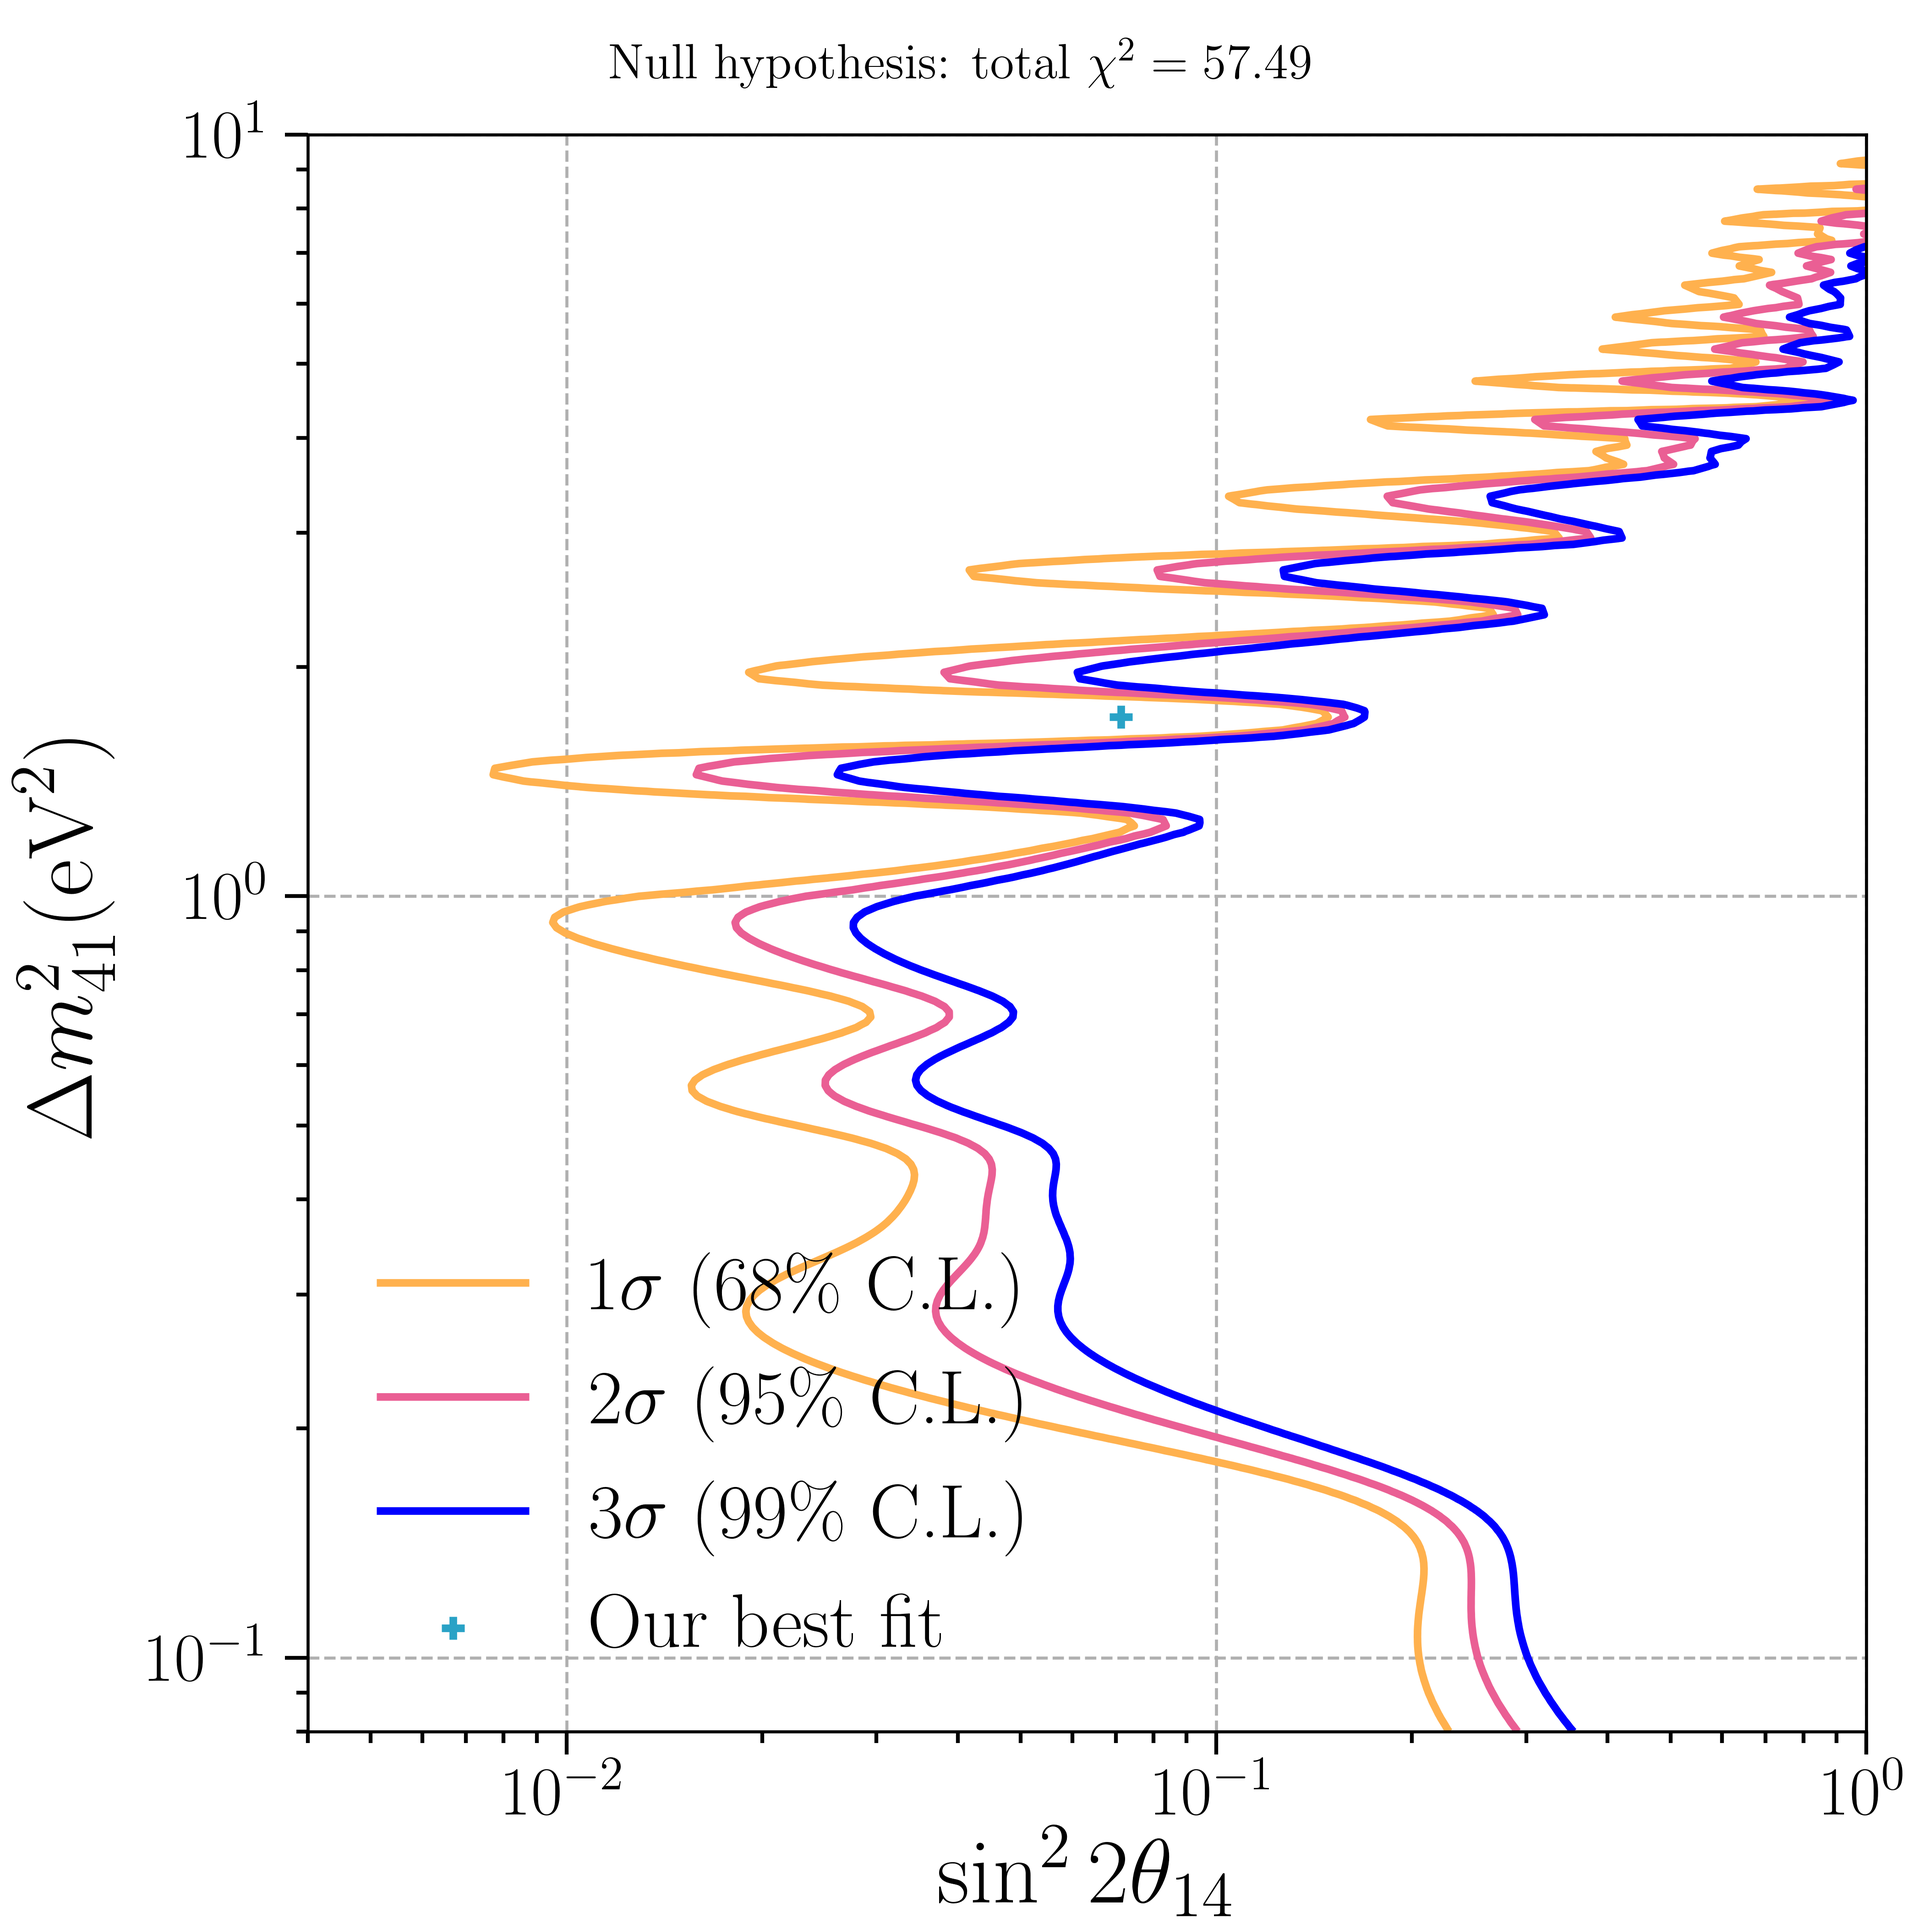
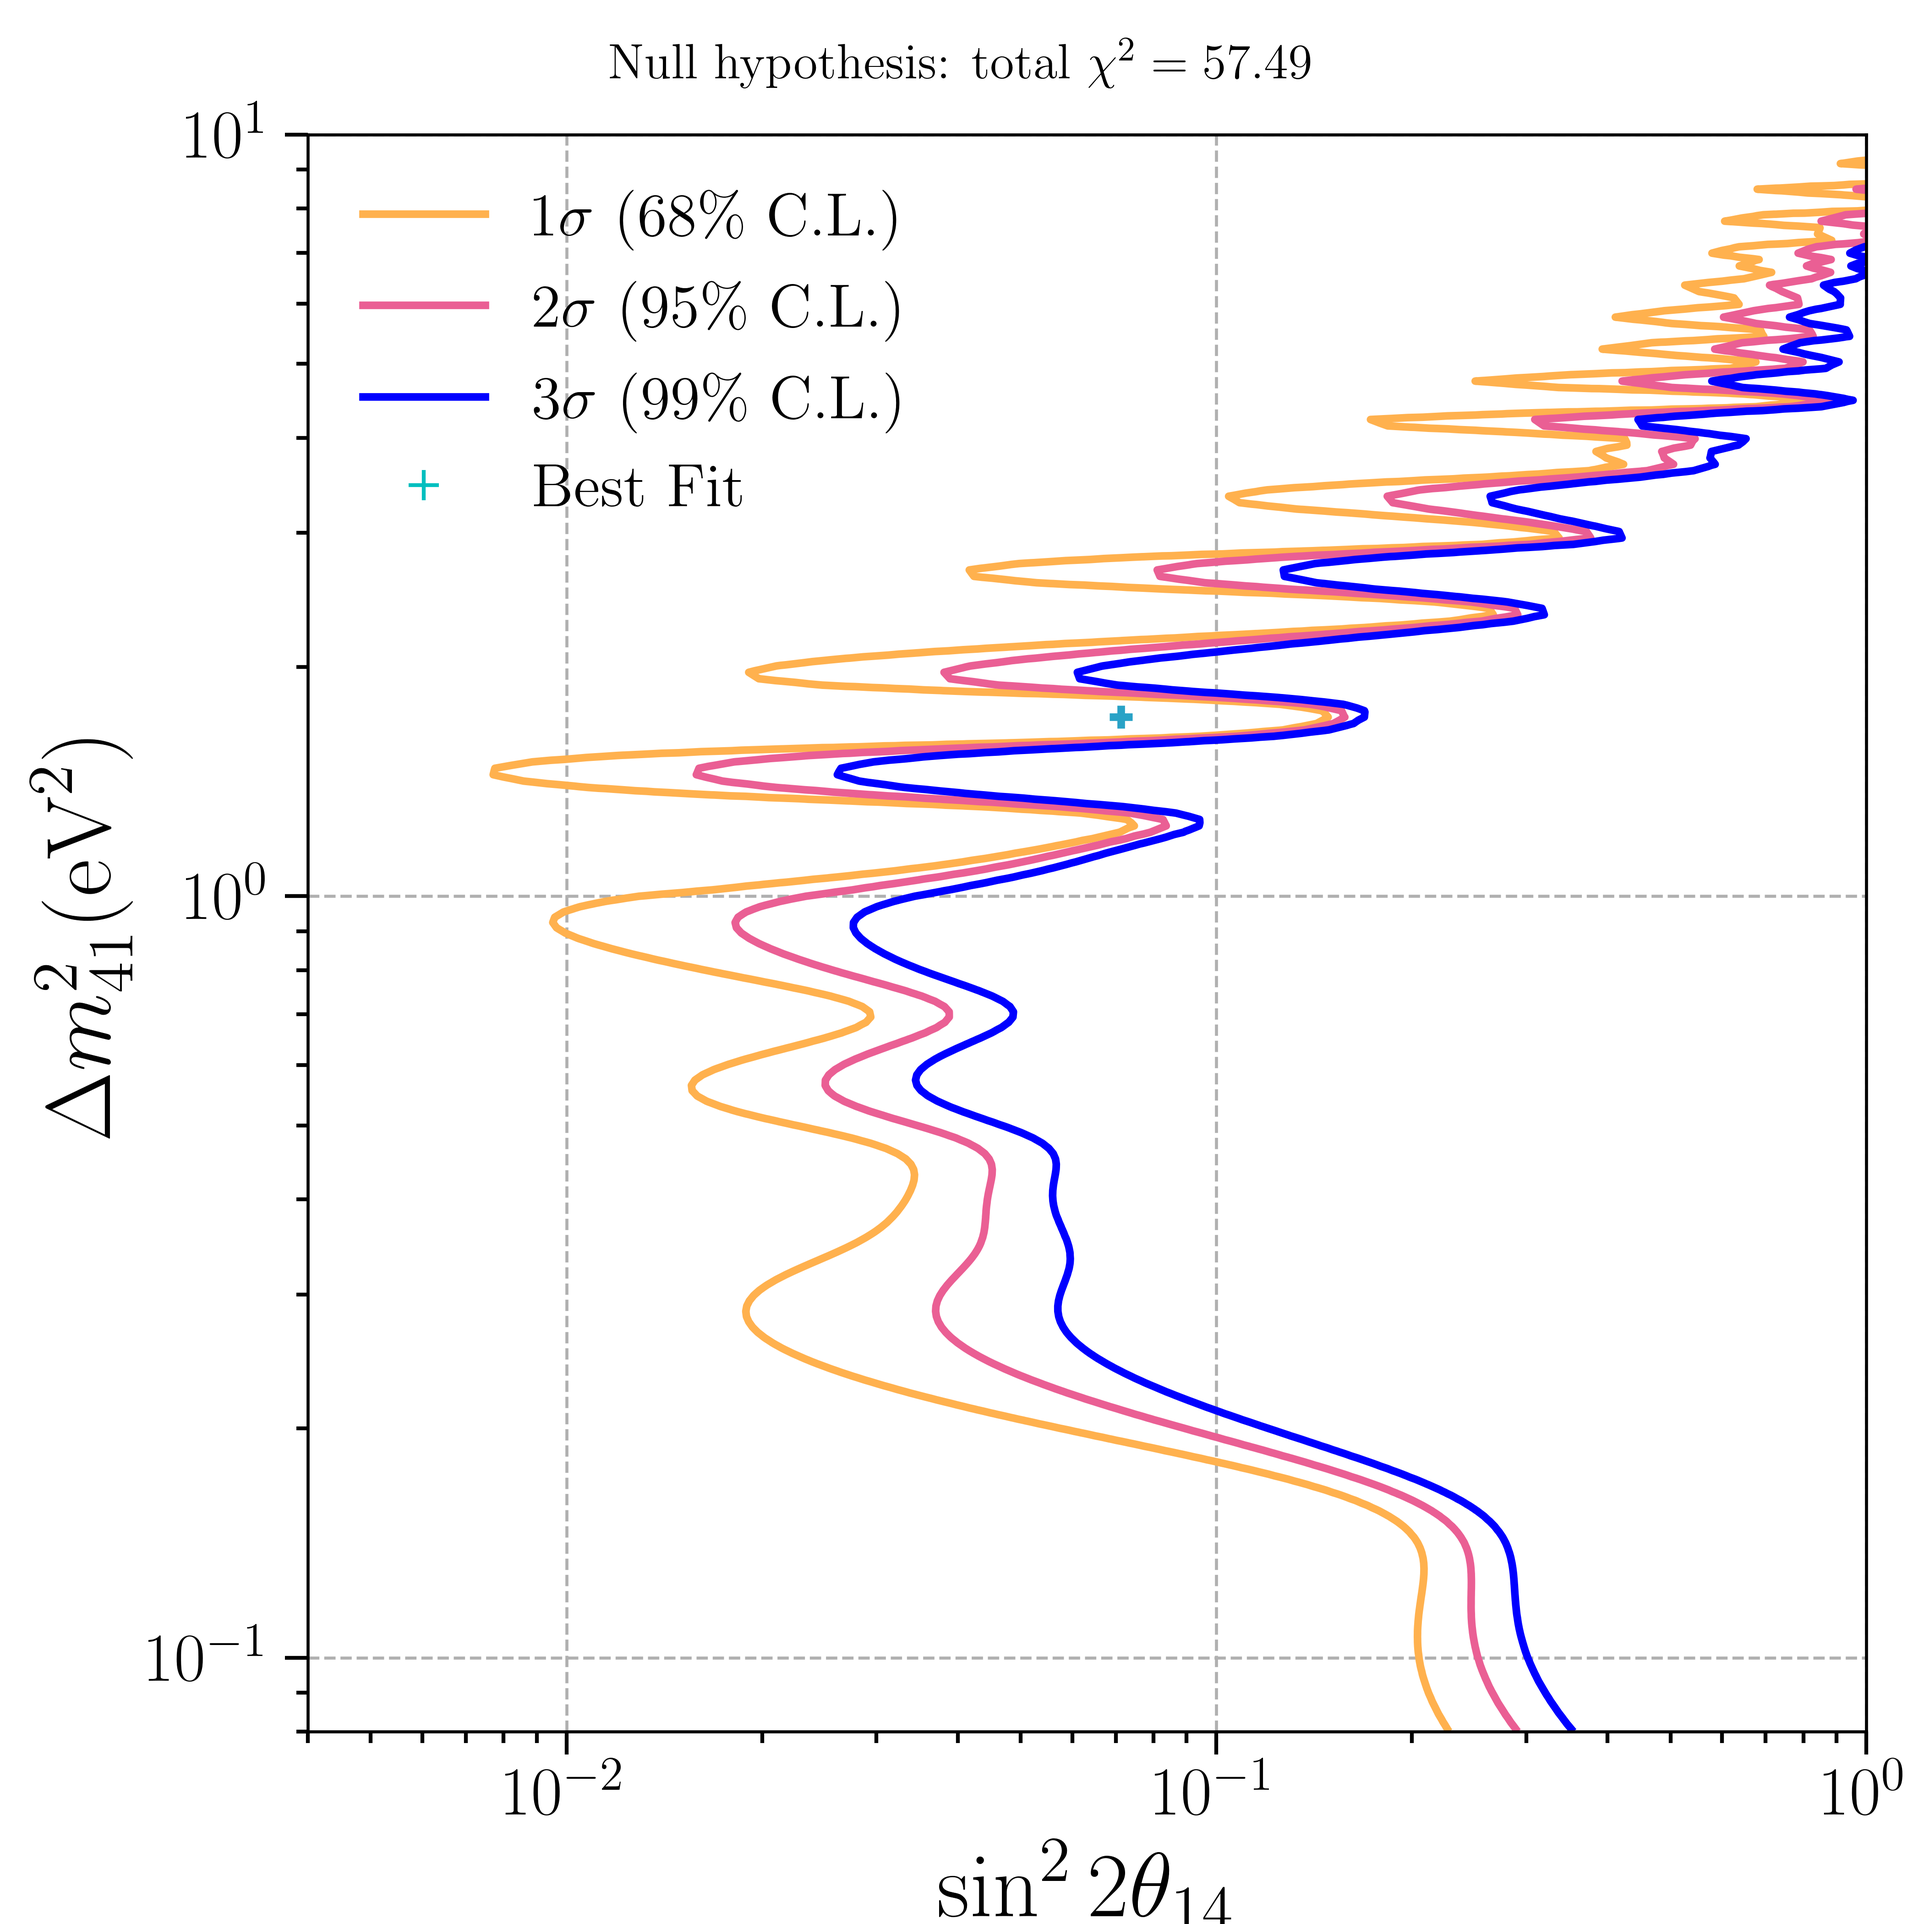
NEOS updated

diff --git a/NEOS/FitPlots.py b/NEOS/FitPlots.py
@@ -1,18 +1,20 @@
 import sys
 import os
-common_dir = '/Common_cython'
-main_dir = os.getcwd()[:-5]
-sys.path.append(main_dir+common_dir)
+homedir = os.path.realpath(__file__)[:-len('NEOS/FitPlots.py')]
+common_dir = 'Common_cython'
+sys.path.append(homedir+common_dir)
 
 import matplotlib.pyplot as plt
 import numpy as np
 import matplotlib
+from matplotlib.lines import Line2D
 
 import Models
 import NEOS
 
-path_to_style= main_dir+common_dir
-dir = 'PlotData/'
+path_to_style= homedir+common_dir
+datadir = homedir+'NEOS/PlotData/'
+plotdir = homedir+'NEOS/Figures/'
 plt.style.use(path_to_style+r"/paper.mplstyle")
 matplotlib.rcParams.update({'text.usetex': True})
 matplotlib.rcParams['text.latex.preamble']=[r"\usepackage{amsmath}"]
@@ -67,14 +69,15 @@ def stylize(axxis,contours,t_ax = [1e-3,1], m_ax = [1e-2,10]):
     axxis.tick_params(axis='y')
     axxis.set_xscale('log')
     axxis.set_yscale('log')
-    axxis.set_ylabel(r"$\Delta m^2_{41} (\text{eV}^2)$", fontsize = 24)
+    axxis.set_ylabel(r"$\Delta m^2_{41} (\textrm{eV}^2)$", fontsize = 24)
     axxis.set_xlabel(r"$\sin^2 2 \theta_{14}$", fontsize = 24)
     axxis.set_xlim([0.004,1])
     axxis.set_ylim([0.08,10.])
-    labels = [r'$1\sigma$ (68\% C.L.)',r'$2\sigma$ (95\% C.L.)',r'$3\sigma$ (99\% C.L.)']
-    for i in range(3):
-        contours.collections[i].set_label(labels[i])
-    axxis.legend(loc = 'lower left', fontsize = 20)
+    legend_elements = [Line2D([0], [0], color=color1, ls = '-', lw=2, label=r'$1\sigma$ (68\% C.L.)'),
+                       Line2D([0], [0], color=color2, ls = '-', lw=2, label=r'$2\sigma$ (95\% C.L.)'),
+                       Line2D([0], [0], color=color3, ls = '-', lw=2, label=r'$3\sigma$ (99\% C.L.)'),
+                       Line2D([0], [0], marker='+', color='c', lw = 0, label='Best Fit', markerfacecolor='b', markersize=8)]
+    axxis.legend(handles = legend_elements, loc = 'upper left', fontsize = 16)
 
 
 # Colorblind-sensitive colors
@@ -93,7 +96,7 @@ margins = dict(left=0.16, right=0.97,bottom=0.1, top=0.93)
 
 print('Plane wave')
 # We load the data
-data_PW = txt_to_array(dir+'PWSterileChi2.dat')
+data_PW = txt_to_array(datadir+'PWSterileChi2.dat')
 data_PW = np.unique(data_PW,axis=0) # We remove duplicates from the list
 
 # We find which is the point with minimum chi2, i.e. our best fit.
@@ -116,8 +119,8 @@ axBF.scatter(bestfit[1],bestfit[0],marker = '+', label = r'Best fit')
 
 stylize(axBF,conts)
 
-figBF.suptitle(r'Best fit:  $\Delta m^2_{41} = %.2f \text{ eV}^2$, $\sin^2 2\theta_{14} = %.3f$. Total $\chi^2 = %.2f$'%(bestfit[0],bestfit[1], bestfit[2]), fontsize = titlesize)
-figBF.savefig('Figures/PWContour_bestfit.png')
+figBF.suptitle(r'Best fit:  $\Delta m^2_{41} = %.2f \textrm{ eV}^2$, $\sin^2 2\theta_{14} = %.3f$. Total $\chi^2 = %.2f$'%(bestfit[0],bestfit[1], bestfit[2]), fontsize = titlesize)
+figBF.savefig(plotdir+'PWContour_bestfit.png')
 
 
 # PLOT WITH RESPECT TO THE NULL HYPOTHESIS
@@ -132,7 +135,7 @@ axNH.scatter(bestfit[1],bestfit[0],marker = '+', label = 'Our best fit')
 stylize(axNH,conts)
 
 figNH.suptitle('Null hypothesis: total $\chi^2 = %.2f$'%(null_hyp_PW), fontsize = titlesize)
-figNH.savefig('Figures/PWContour_nullhyp.png')
+figNH.savefig(plotdir+'PWContour_nullhyp.png')
 
 
 
@@ -141,7 +144,7 @@ figNH.savefig('Figures/PWContour_nullhyp.png')
 # -------------------------------------------------
 
 print('\nWave Packet')
-data_WP = txt_to_array(dir+'WPSterileChi2.dat')
+data_WP = txt_to_array(datadir+'WPSterileChi2.dat')
 data_WP = np.unique(data_WP,axis=0) # We remove duplicates from the list
 
 # We find which is the point with minimum chi2, i.e. our best fit.
@@ -166,7 +169,7 @@ axBF.scatter(bestfit[1],bestfit[0],marker = '+', label = r'Best fit')
 stylize(axBF,conts)
 
 figBF.suptitle(r'Best fit:  $\Delta m^2_{41} = %.2f eV^2$, $\sin^2 2\theta_{14} = %.3f$. Total $\chi^2 = %.2f$'%(bestfit[0],bestfit[1], bestfit[2]), fontsize = titlesize)
-figBF.savefig('Figures/WPContour_bestfit.png')
+figBF.savefig(plotdir+'WPContour_bestfit.png')
 
 
 # PLOT WITH RESPECT TO THE NULL HYPOTHESIS
@@ -181,7 +184,7 @@ axNH.scatter(bestfit[1],bestfit[0],marker = '+', label = 'Our best fit')
 stylize(axNH,conts)
 
 figNH.suptitle('Null hypothesis: total $\chi^2 = %.2f$'%(null_hyp_WP), fontsize = titlesize)
-figNH.savefig('Figures/WPContour_nullhyp.png')
+figNH.savefig(plotdir+'WPContour_nullhyp.png')
 
 
 
@@ -196,9 +199,7 @@ figNH.savefig('Figures/WPContour_nullhyp.png')
 margins = dict(left=0.16, right=0.97,bottom=0.1, top=0.97)
 fig_comp,ax_comp = plt.subplots(figsize = size, gridspec_kw = margins)
 cont_PW = ax_comp.tricontour(data_PW[:,1],data_PW[:,0],(data_PW[:,2]-null_hyp_PW),levels = [6.18], colors = color2, linestyles = ['solid'])
-cont_PW.collections[0].set_label(r'$2\sigma$ Plane wave')
 cont_WP = ax_comp.tricontour(data_WP[:,1],data_WP[:,0],(data_WP[:,2]-null_hyp_WP),levels = [6.18], colors = color3, linestyles = ['solid'])
-cont_WP.collections[0].set_label(r'$2\sigma$ Wave packet')
 
 ax_comp.annotate('NEOS', xy = (5e-3,6), size = 42)
 ax_comp.grid(linestyle = '--')
@@ -206,11 +207,13 @@ ax_comp.tick_params(axis='x')
 ax_comp.tick_params(axis='y')
 ax_comp.set_xscale('log')
 ax_comp.set_yscale('log')
-ax_comp.set_ylabel(r"$\Delta m^2_{41} (\text{eV}^2)$", fontsize = 24)
+ax_comp.set_ylabel(r"$\Delta m^2_{41} (\textrm{eV}^2)$", fontsize = 24)
 ax_comp.set_xlabel(r"$\sin^2 2 \theta_{14}$", fontsize = 24)
 ax_comp.set_xlim([0.004,1])
 ax_comp.set_ylim([0.08,10.])
-ax_comp.legend(loc = 'lower left', fontsize = 20)
+legend_elements = [Line2D([0], [0], color=color2, ls = '-', lw=2, label=r'$2\sigma$ Plane wave'),
+                   Line2D([0], [0], color=color3, ls = '-', lw=2, label=r'$2\sigma$ Wave packet')]
+ax_comp.legend(handles = legend_elements, loc = 'lower left', fontsize = 16)
 
-fig_comp.savefig('Figures/ContourComparison.pdf')
-fig_comp.savefig('Figures/ContourComparison.png')
+fig_comp.savefig(plotdir+'ContourComparison.pdf')
+fig_comp.savefig(plotdir+'ContourComparison.png')

diff --git a/NEOS/EventExpectationPlots.py b/NEOS/EventExpectationPlots.py
@@ -1,7 +1,9 @@
 import sys
 import os
-common_dir = '/Common_cython'
-sys.path.append(os.getcwd()[:-5]+common_dir)
+homedir = os.path.realpath(__file__)[:-len('NEOS/EventExpectationPlots.py')]
+common_dir = 'Common_cython/'
+plotdir = homedir + 'NEOS/Figures/'
+sys.path.append(homedir+common_dir)
 
 import time
 import NEOS
@@ -94,7 +96,7 @@ axSM.grid(linestyle="--")
 axSM.legend(loc="upper right",fontsize=16)
 
 figSM.suptitle(r'SM fit: $\Delta m^2_{31} = 2.5·10^{-3} eV^2$, $\sin^2 2\theta_{13} = 0.0841$', fontsize = 17)
-figSM.savefig("Figures/EventExpectation/EventExpectation_SM.png")
+figSM.savefig(plotdir+"EventExpectation/EventExpectation_SM.png")
 
 
 # -------------------------------------------------------
@@ -117,7 +119,7 @@ axev.legend(loc="upper right",fontsize=16)
 # figev.suptitle(r'Our best fit: $\Delta m^2_{13} = 2.5·10^{-3} eV^2$, $\sin^2 2\theta_{13} = 0.07821$', fontsize = 17)
 # figev.suptitle(r'DB best fit: $\Delta m^2_{13} = 2.4·10^{-3} eV^2$, $\sin^2 2\theta_{13} = 0.0841$', fontsize = 17)
 figev.suptitle(r'Sterile with $\Delta m^2_{41} = %.2f eV^2$, $\sin^2 2\theta_{14} = %.2f$. Total $\chi^2 = %.2f$'%(dm2,sin2,chi2), fontsize = 17)
-figev.savefig("Figures/EventExpectation/EventExpectation_%.2f_%.3f_ste.png"%(dm2,sin2))
+figev.savefig(plotdir+"EventExpectation/EventExpectation_%.2f_%.3f_ste.png"%(dm2,sin2))
 # As we can see, both ways of computing the event expectations give the same result.
 
 
@@ -145,4 +147,4 @@ axev.grid(linestyle="--")
 axev.legend(loc="lower left",fontsize=16)
 
 figev.suptitle(r'Sterile with $\Delta m^2_{41} = %.2f eV^2$, $\sin^2 2\theta_{14} = %.2f$. Total $\chi^2 = %.2f$'%(dm2,sin2,chi2), fontsize = 17)
-figev.savefig("Figures/EventRatio/EventRatio_%.2f_%.3f_ste.png"%(dm2,sin2))
+figev.savefig(plotdir+"EventRatio/EventRatio_%.2f_%.3f_ste.png"%(dm2,sin2))

diff --git a/NEOS/FitClass.py b/NEOS/FitClass.py
@@ -1,7 +1,8 @@
 import sys
 import os
-common_dir = '/Common_cython'
-sys.path.append(os.getcwd()[:-5]+common_dir)
+homedir = os.path.realpath(__file__)[:-len('NEOS/FitClass.py')]
+common_dir = 'Common_cython'
+sys.path.append(homedir+common_dir)
 
 import NEOS
 import Models
@@ -46,6 +47,7 @@ class SterileFit:
         Input:
         mass: the value of Delta m^2_{41} of the sterile neutrino.
         angl: the value of sin^2(2theta_{41})
+        sigma: the value of the wave packet width (in nm)
 
         Output: (float) the chi2 value.
         """
@@ -67,6 +69,7 @@ class SterileFit:
         mass_ax (array/list): the values of Delta m^2_{41}.
         angl_ax (array/list): the values of sin^2(2theta_{41})
         filename (str): the name of the file in which to write the table.
+        sigma: the value of the wave packet width (in nm)
         """
         file = open(filename,'w')
         for m in mass_ax:

diff --git a/NEOS/NEOS.py b/NEOS/NEOS.py
@@ -1,7 +1,8 @@
 import sys
 import os
-common_dir = '/Common_cython'
-sys.path.append(os.getcwd()[:-5]+common_dir)
+homedir = os.path.realpath(__file__)[:-len('NEOS/NEOS.py')]
+common_dir = 'Common_cython'
+sys.path.append(homedir+common_dir)
 
 import InverseBetaDecayCrossSection as IBD
 import HuberMullerFlux as HMF

diff --git a/NEOS/NEOSData.py b/NEOS/NEOSData.py
@@ -1,7 +1,10 @@
 import numpy as np
 import os
 
-dir = os.path.dirname(os.path.abspath(__file__))+"/Data/"
+dir = os.path.realpath(__file__)[:-len('NEOSData.py')]+'Data/'
+# common_dir = 'Common_cython'
+# sys.path.append(homedir+common_dir)
+# dir = os.path.dirname(os.path.abspath(__file__))+"/Data/"
 
 
 
